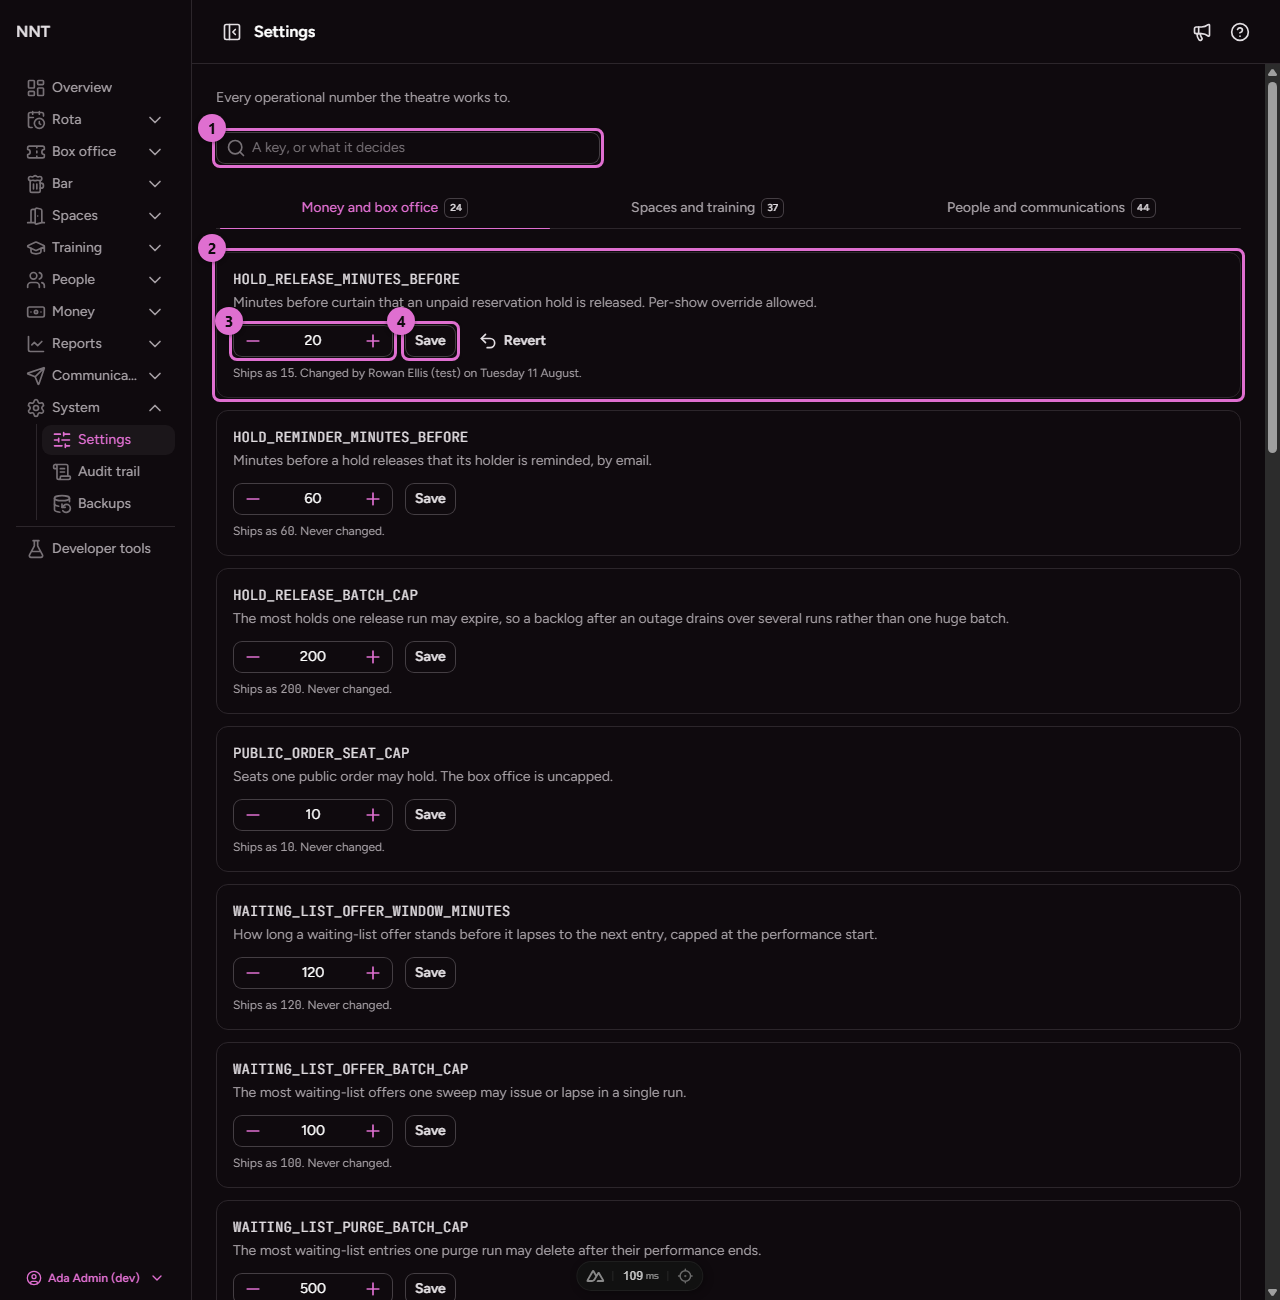
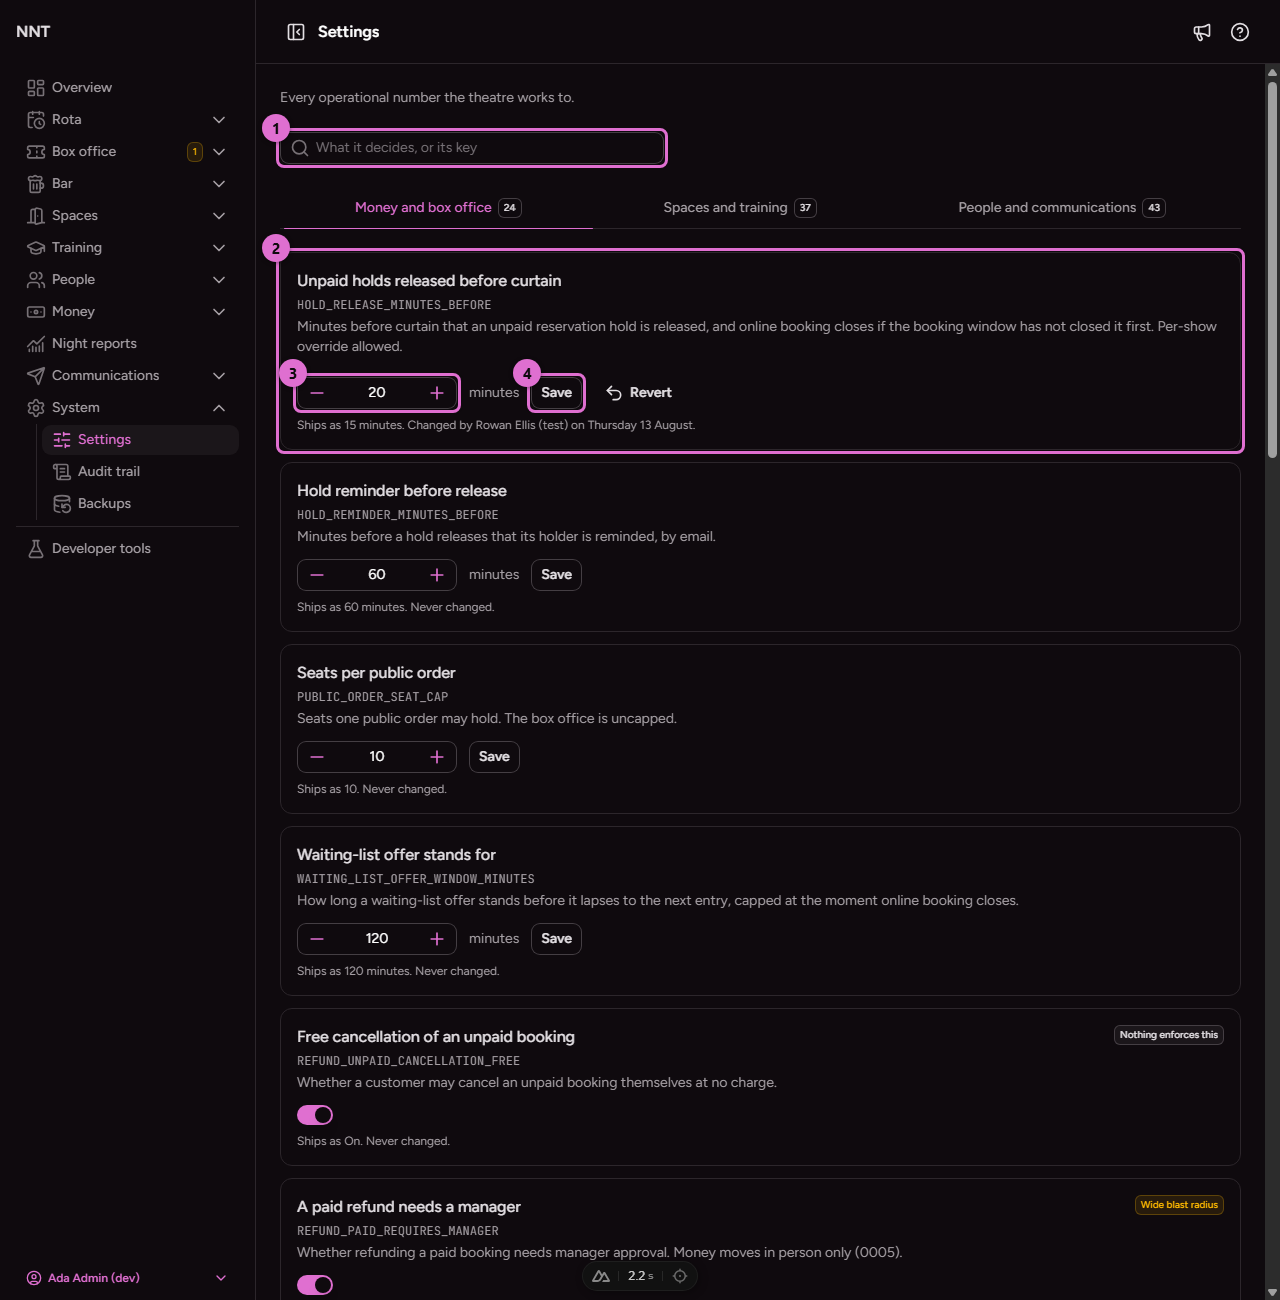
Apply the review of the settings change: a fifth e2e file narrows in the database, a floor role stored off the list can be ticked back, and the settings picture is retaken (#1357)

diff --git a/tests/e2e/config-surface.test.ts b/tests/e2e/config-surface.test.ts
@@ -3,7 +3,7 @@ import { Database } from 'bun:sqlite'
 import { CONFIG_KEYS, CONFIG_KEY_NAMES } from '#shared/utils/config'
 import { codeForStep, stepFor } from '#shared/utils/totp'
 import { forgetSpentStep, markVerified } from '#tests/helpers/accounts'
-import { overrideConfig } from '#tests/helpers/config'
+import { clearConfigOverride, overrideConfig } from '#tests/helpers/config'
 import { generatePassword, registrableAddress, syntheticPerson } from '#tests/helpers/seed'
 import { click, fill, fillPin, openSignedOutView, skipReason, startApp, textOf, visit, waitFor } from '#tests/helpers/webview'
 import type { AppUnderTest } from '#tests/helpers/webview'
@@ -84,16 +84,6 @@ function auditFor(key: string): { detail: string } | null {
   }
 }
 
-function clearOverride(key: string): void {
-  const database = new Database(app.databaseFile)
-  try {
-    database.query('DELETE FROM config WHERE key = ?').run(key)
-  }
-  finally {
-    database.close()
-  }
-}
-
 describe.skipIf(skip !== null)('the settings surface (J-104)', () => {
   test('every key is listed with its default and whether it is enforced', async () => {
     const listed = await settings()
@@ -126,7 +116,7 @@ describe.skipIf(skip !== null)('the settings surface (J-104)', () => {
       expect(policy.minLength).toBe(raised)
     }
     finally {
-      clearOverride('PASSWORD_MIN_LENGTH')
+      clearConfigOverride(app, 'PASSWORD_MIN_LENGTH')
     }
   })
 
@@ -137,7 +127,7 @@ describe.skipIf(skip !== null)('the settings surface (J-104)', () => {
       expect(JSON.parse(entry!.detail)).toMatchObject({ key: 'BAR_TAB_CAP_PENCE', changes: { value: { from: 2000, to: 2500 } } })
     }
     finally {
-      clearOverride('REFUND_UNPAID_CANCELLATION_FREE')
+      clearConfigOverride(app, 'REFUND_UNPAID_CANCELLATION_FREE')
     }
   })
 
@@ -153,7 +143,7 @@ describe.skipIf(skip !== null)('the settings surface (J-104)', () => {
       expect((await settingFor('NIGHT_REPORT_RECIPIENTS')).value).toEqual(['duty@newtheatre.org.uk'])
     }
     finally {
-      clearOverride('NIGHT_REPORT_RECIPIENTS')
+      clearConfigOverride(app, 'NIGHT_REPORT_RECIPIENTS')
     }
   })
 
@@ -169,7 +159,7 @@ describe.skipIf(skip !== null)('the settings surface (J-104)', () => {
       expect((await settingFor('BAR_TAB_CAP_PENCE')).people).toBeNull()
     }
     finally {
-      clearOverride('BAR_AUTHORISED_TAB_HOLDERS')
+      clearConfigOverride(app, 'BAR_AUTHORISED_TAB_HOLDERS')
     }
   })
 
@@ -180,7 +170,7 @@ describe.skipIf(skip !== null)('the settings surface (J-104)', () => {
       expect(JSON.parse(auditFor('BAR_AUTHORISED_TAB_ROLES')!.detail)).toMatchObject({ changes: { value: { from: [], to: ['COMMITTEE'] } } })
     }
     finally {
-      clearOverride('BAR_AUTHORISED_TAB_ROLES')
+      clearConfigOverride(app, 'BAR_AUTHORISED_TAB_ROLES')
     }
   })
 
@@ -296,8 +286,8 @@ describe.skipIf(skip !== null)('the settings screen', () => {
       expect((await settingFor('REFUND_UNPAID_CANCELLATION_FREE')).value).toBe(false)
     }
     finally {
-      clearOverride('REFUND_UNPAID_CANCELLATION_FREE')
-      clearOverride('YEAR_START')
+      clearConfigOverride(app, 'REFUND_UNPAID_CANCELLATION_FREE')
+      clearConfigOverride(app, 'YEAR_START')
       view.close()
     }
   }, CASE_TIMEOUT_MS)
@@ -341,7 +331,7 @@ describe.skipIf(skip !== null)('the settings screen', () => {
       expect(await view.evaluate<boolean>('Boolean(document.querySelector(\'[data-test="bank-holiday-sync-now"]\'))')).toBe(false)
     }
     finally {
-      clearOverride('PRIVILEGED_ROLES')
+      clearConfigOverride(app, 'PRIVILEGED_ROLES')
       view.close()
     }
   }, CASE_TIMEOUT_MS)

diff --git a/tests/e2e/tonight-house.test.ts b/tests/e2e/tonight-house.test.ts
@@ -1,6 +1,7 @@
 import { afterAll, beforeAll, describe, expect, test } from 'bun:test'
 import { Database } from 'bun:sqlite'
 import { adminSession, registerMember, request } from '#tests/helpers/accounts'
+import { clearConfigOverride, overrideConfig } from '#tests/helpers/config'
 import { sqliteTarget } from '#tests/helpers/database'
 import { testVenue, ticketTypeFixture, tonightsPerformance } from '#tests/helpers/programme'
 import { generatePassword } from '#tests/helpers/seed'
@@ -38,15 +39,15 @@ function write(statement: string, ...parameters: unknown[]): void {
 const send = (method: string, path: string, body?: unknown, as = admin.cookie): Promise<Response> =>
   request(app, method, path, body, as)
 
-// The officer carries no authenticator; narrowing PRIVILEGED_ROLES for one request is the
-// shortcut tests/e2e/access-tickets.test.ts takes to reach the verification route.
+// The officer carries no authenticator. PRIVILEGED_ROLES is narrowed in the database for one
+// request, since the settings route refuses a list below its floor (A-112, issue 1357).
 async function withoutSecondFactor<T>(fn: () => Promise<T>): Promise<T> {
-  await send('PUT', '/api/admin/config/PRIVILEGED_ROLES', { value: ['ADMIN'] })
+  overrideConfig(app, 'PRIVILEGED_ROLES', ['ADMIN'])
   try {
     return await fn()
   }
   finally {
-    await send('PUT', '/api/admin/config/PRIVILEGED_ROLES', { value: ['ADMIN', 'MANAGER', 'THEATRE_MANAGER', 'TRAINING_MANAGER', 'ACCESSIBILITY_OFFICER'] })
+    clearConfigOverride(app, 'PRIVILEGED_ROLES')
   }
 }
 

diff --git a/tests/e2e/blast-radius.test.ts b/tests/e2e/blast-radius.test.ts
@@ -2,6 +2,7 @@ import { afterAll, beforeAll, describe, expect, test } from 'bun:test'
 import { Database } from 'bun:sqlite'
 import { CONFIG_KEYS } from '#shared/utils/config'
 import { adminSession, registerMember, request } from '#tests/helpers/accounts'
+import { clearConfigOverride } from '#tests/helpers/config'
 import { generatePassword } from '#tests/helpers/seed'
 import { skipReason, startApp } from '#tests/helpers/webview'
 import type { AppUnderTest } from '#tests/helpers/webview'
@@ -99,16 +100,6 @@ describe.skipIf(skip !== null)('saving a flagged key needs a typed confirmation 
 describe.skipIf(skip !== null)('the flag list and the second-factor roles', () => {
   const FLOOR = CONFIG_KEYS.PRIVILEGED_ROLES.default
 
-  function clear(key: string): void {
-    const database = new Database(app.databaseFile)
-    try {
-      database.query('DELETE FROM config WHERE key = ?').run(key)
-    }
-    finally {
-      database.close()
-    }
-  }
-
   test('the flag list is not a setting', async () => {
     expect((await send('PUT', '/api/admin/config/WIDE_BLAST_RADIUS_KEYS', { value: [] })).status).toBe(404)
     const settings = await (await send('GET', '/api/admin/config')).json() as { settings: { key: string, wideBlastRadius: boolean }[] }
@@ -129,7 +120,7 @@ describe.skipIf(skip !== null)('the flag list and the second-factor roles', () =
       expect(answered.status).toBe(200)
     }
     finally {
-      clear('PRIVILEGED_ROLES')
+      clearConfigOverride(app, 'PRIVILEGED_ROLES')
     }
   })
 

diff --git a/app/components/settings/RolesField.vue b/app/components/settings/RolesField.vue
@@ -1,14 +1,14 @@
 <script setup lang="ts">
 import { ROLES, saysRole } from '#shared/utils/roles'
 
-// Roles are chosen from the roles that exist, by title, so a misspelt one cannot be saved. A
-// fixed role is ticked and cannot be unticked; the server refuses its removal regardless.
+// Roles are chosen from the roles that exist, by title, so a misspelt one cannot be saved. A fixed
+// role once ticked cannot be unticked, and one stored off the list can be ticked back to repair it.
 
 const model = defineModel<string[]>({ default: () => [] })
 const props = withDefaults(defineProps<{ name: string, label: string, fixed?: readonly string[] }>(), { fixed: () => [] })
 
 const items = computed<{ label: string, value: string, disabled: boolean }[]>(() =>
-  ROLES.map(role => ({ label: saysRole(role), value: role, disabled: props.fixed.includes(role) })))
+  ROLES.map(role => ({ label: saysRole(role), value: role, disabled: props.fixed.includes(role) && model.value.includes(role) })))
 </script>
 
 <template>

diff --git a/tests/unit/comms-admin-rooms-screens.test.ts b/tests/unit/comms-admin-rooms-screens.test.ts
@@ -83,6 +83,12 @@ describe('the settings screen reads as rules', () => {
     expect(await read(SETTINGS)).toContain(':fixed="roleFloor(setting.key)"')
     expect(await read('app/components/settings/RolesField.vue')).toMatch(/disabled: props\.fixed/)
   })
+
+  // A list stored below the floor would otherwise refuse every save with no way to put it right.
+  test('a floor role stored off the list can be ticked back, so the save that repairs it is possible', async () => {
+    expect(await read('app/components/settings/RolesField.vue'))
+      .toContain('disabled: props.fixed.includes(role) && model.value.includes(role)')
+  })
 })
 
 describe('the backups screen says where a restore happens (J-107 criterion 6)', () => {

diff --git a/tests/integration/blast-radius.test.ts b/tests/integration/blast-radius.test.ts
@@ -3,7 +3,7 @@ import { officersWithoutRefundApprovalQuery, refundPreviewRoles, roleHoldersWith
 import { boundStatement, createTestDatabase, rows } from '#tests/helpers/database'
 import type { TestDatabase } from '#tests/helpers/database'
 
-// J-105 criterion 1: REFUND_PAID_REQUIRES_MANAGER's own preview, against the real migrations.
+// J-105 criterion 1: the refund and second-factor role previews, against the real migrations.
 
 async function withDatabase(fn: (database: TestDatabase) => void | Promise<void>): Promise<void> {
   const database = await createTestDatabase()

diff --git a/content/docs/13.system/1.settings.md b/content/docs/13.system/1.settings.md
@@ -68,13 +68,8 @@ products, the roll of Fellows) are records kept on their own screens, not settin
 
 At the foot of each tab, **Technical limits** is folded shut. These say how much one scheduled
 run may do at once, such as how many held seats one release run lets go: a backlog after an
-outage clears over several runs rather than one huge batch. Nobody meets one as a rule. Press **Technical limits** to open them; a search opens them too.
-
-## Reading without changing
-
-The Manager and the Theatre Manager read the settings and change none. For them each card
-shows its value in words, such as **15 minutes**, **£20.00**, **On** or a list of role titles,
-with no input, no **Save**, no **Revert** and no **Sync now**.
+outage clears over several runs rather than one huge batch. Nobody meets one as a rule.
+Press **Technical limits** to open them; a search opens them too.
 
 Four badges can sit on a card:
 
@@ -87,6 +82,12 @@ Four badges can sit on a card:
   number of the piece of work that builds the feature, and pressing it opens that work's page.
 - **Not set**: the key has no shipped value and nobody has given it one. The feature that needs
   it is blocked rather than guessing.
+
+## Reading without changing
+
+The Manager and the Theatre Manager read the settings and change none. For them each card
+shows its value in words, such as **15 minutes**, **£20.00**, **On** or a list of role titles,
+with no input, no **Save**, no **Revert** and no **Sync now**.
 
 ## Changing a value
 
